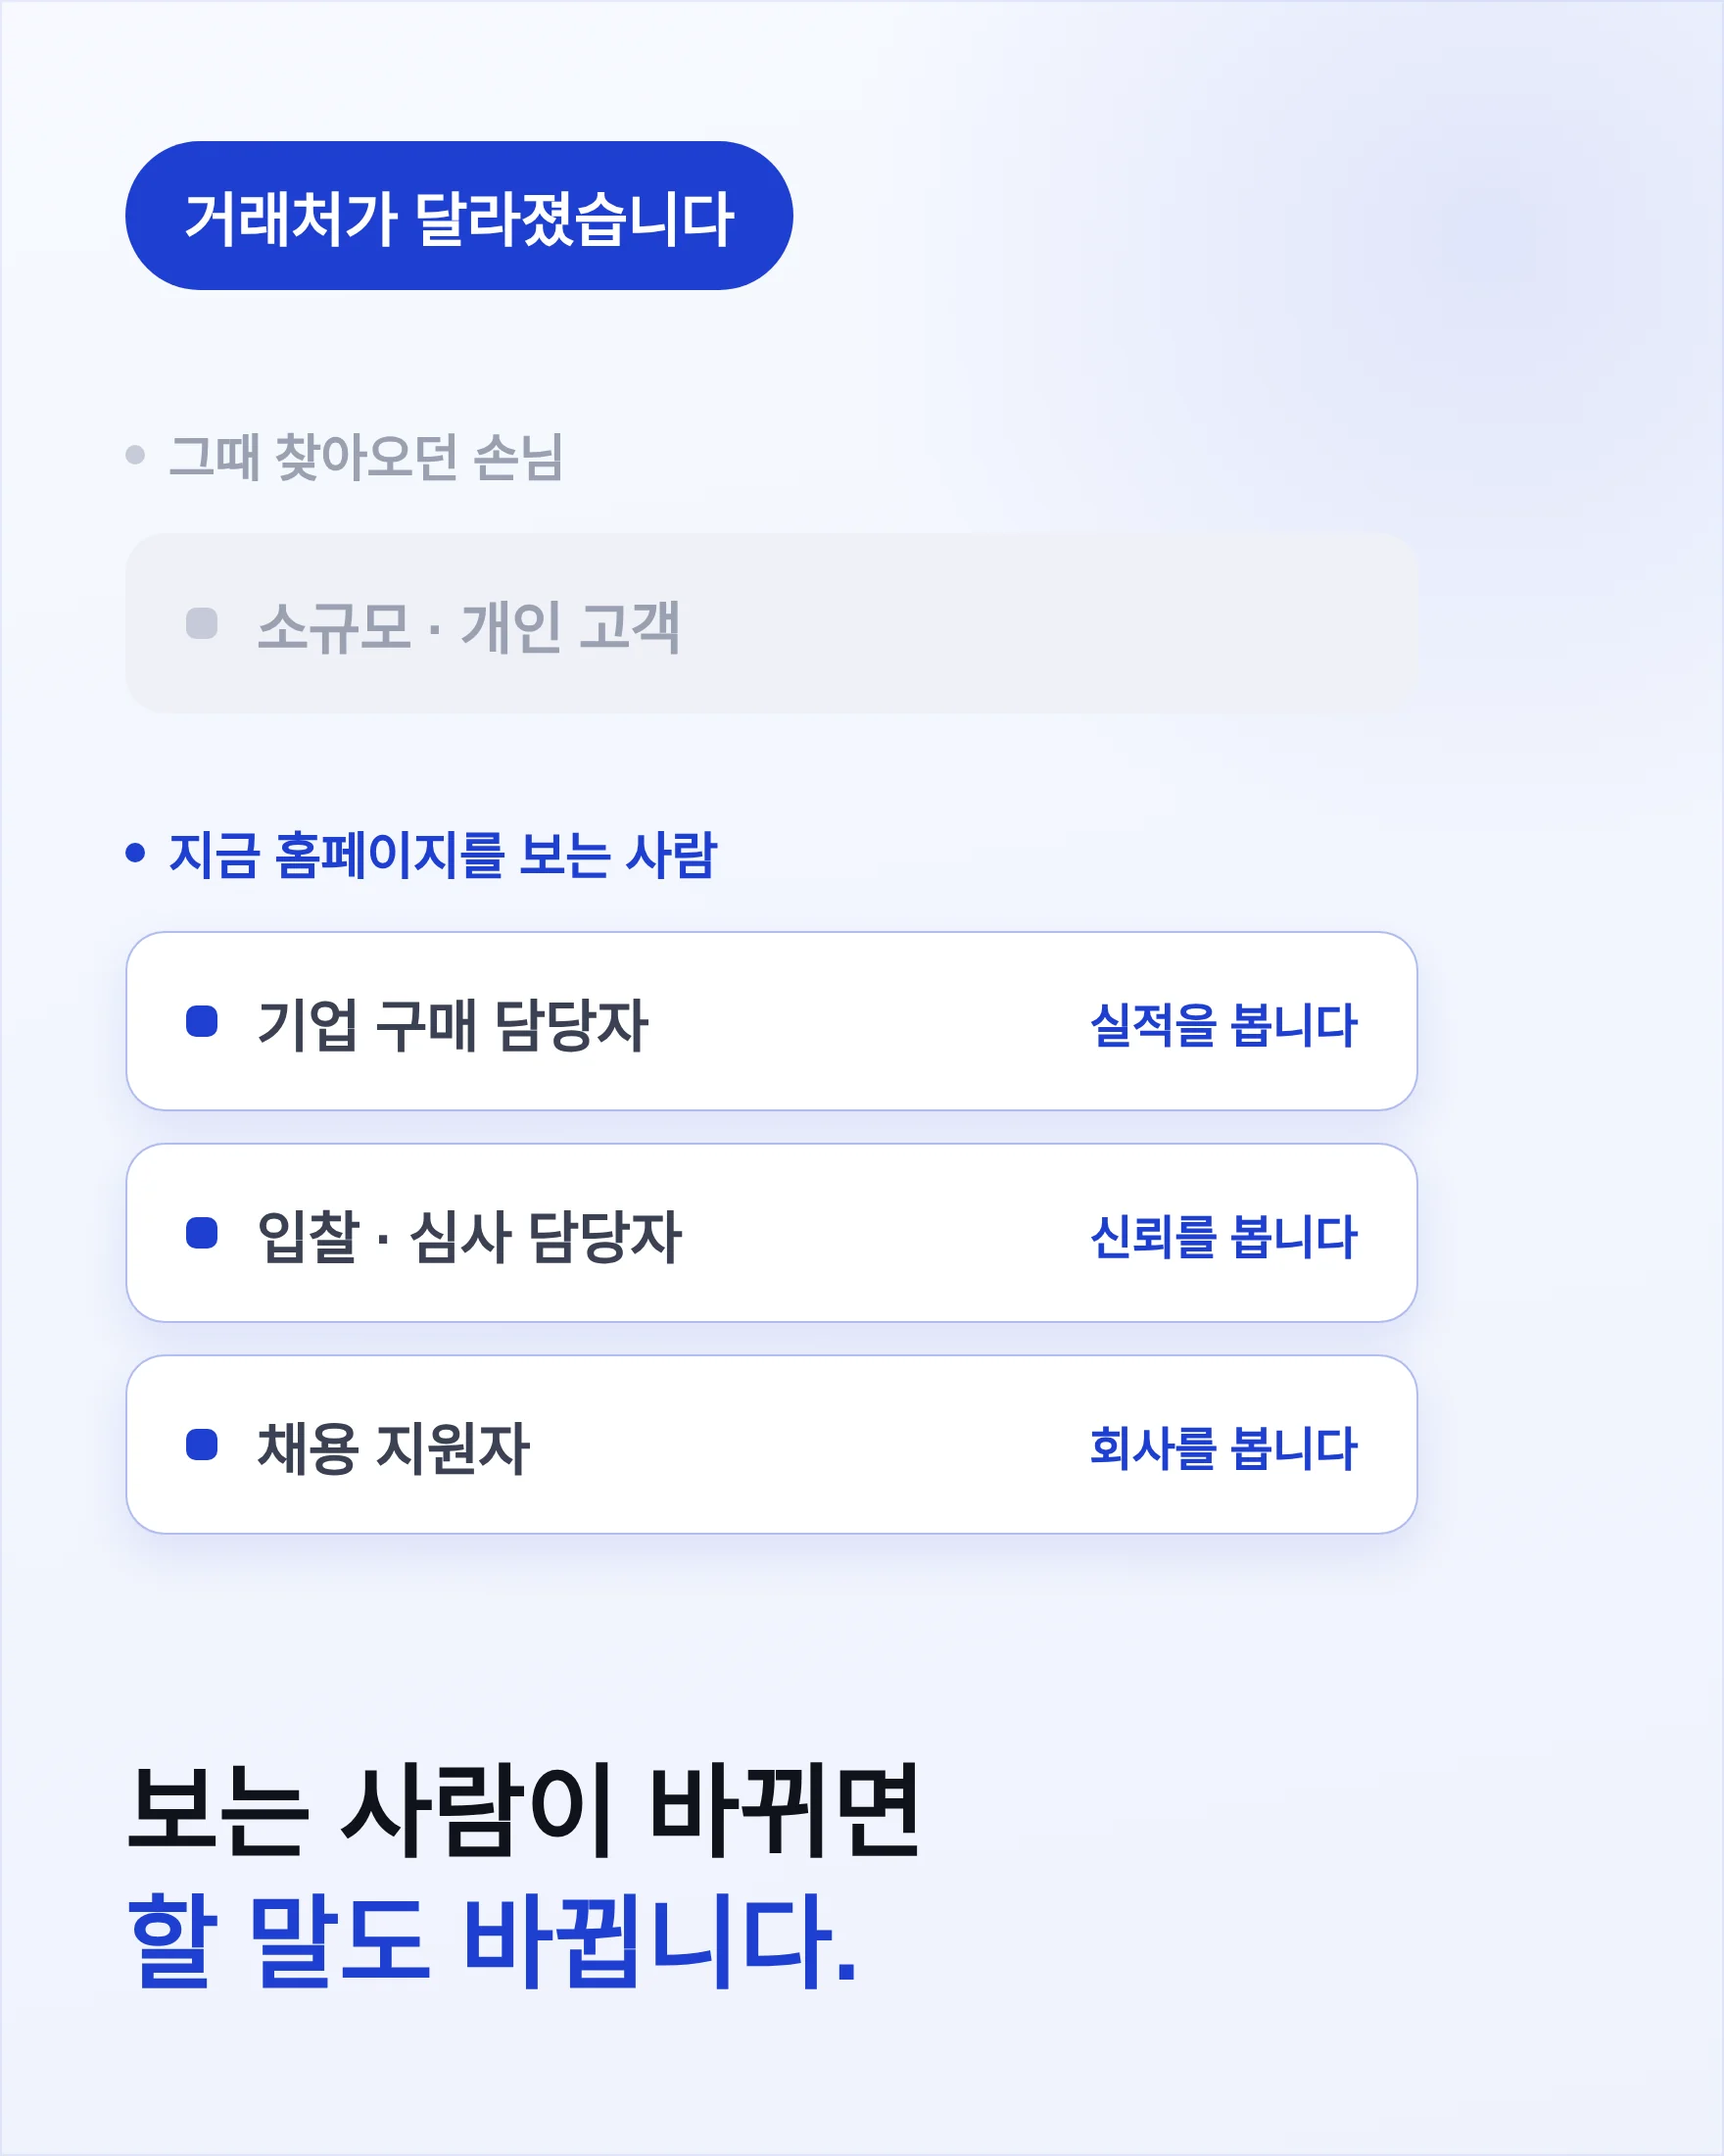
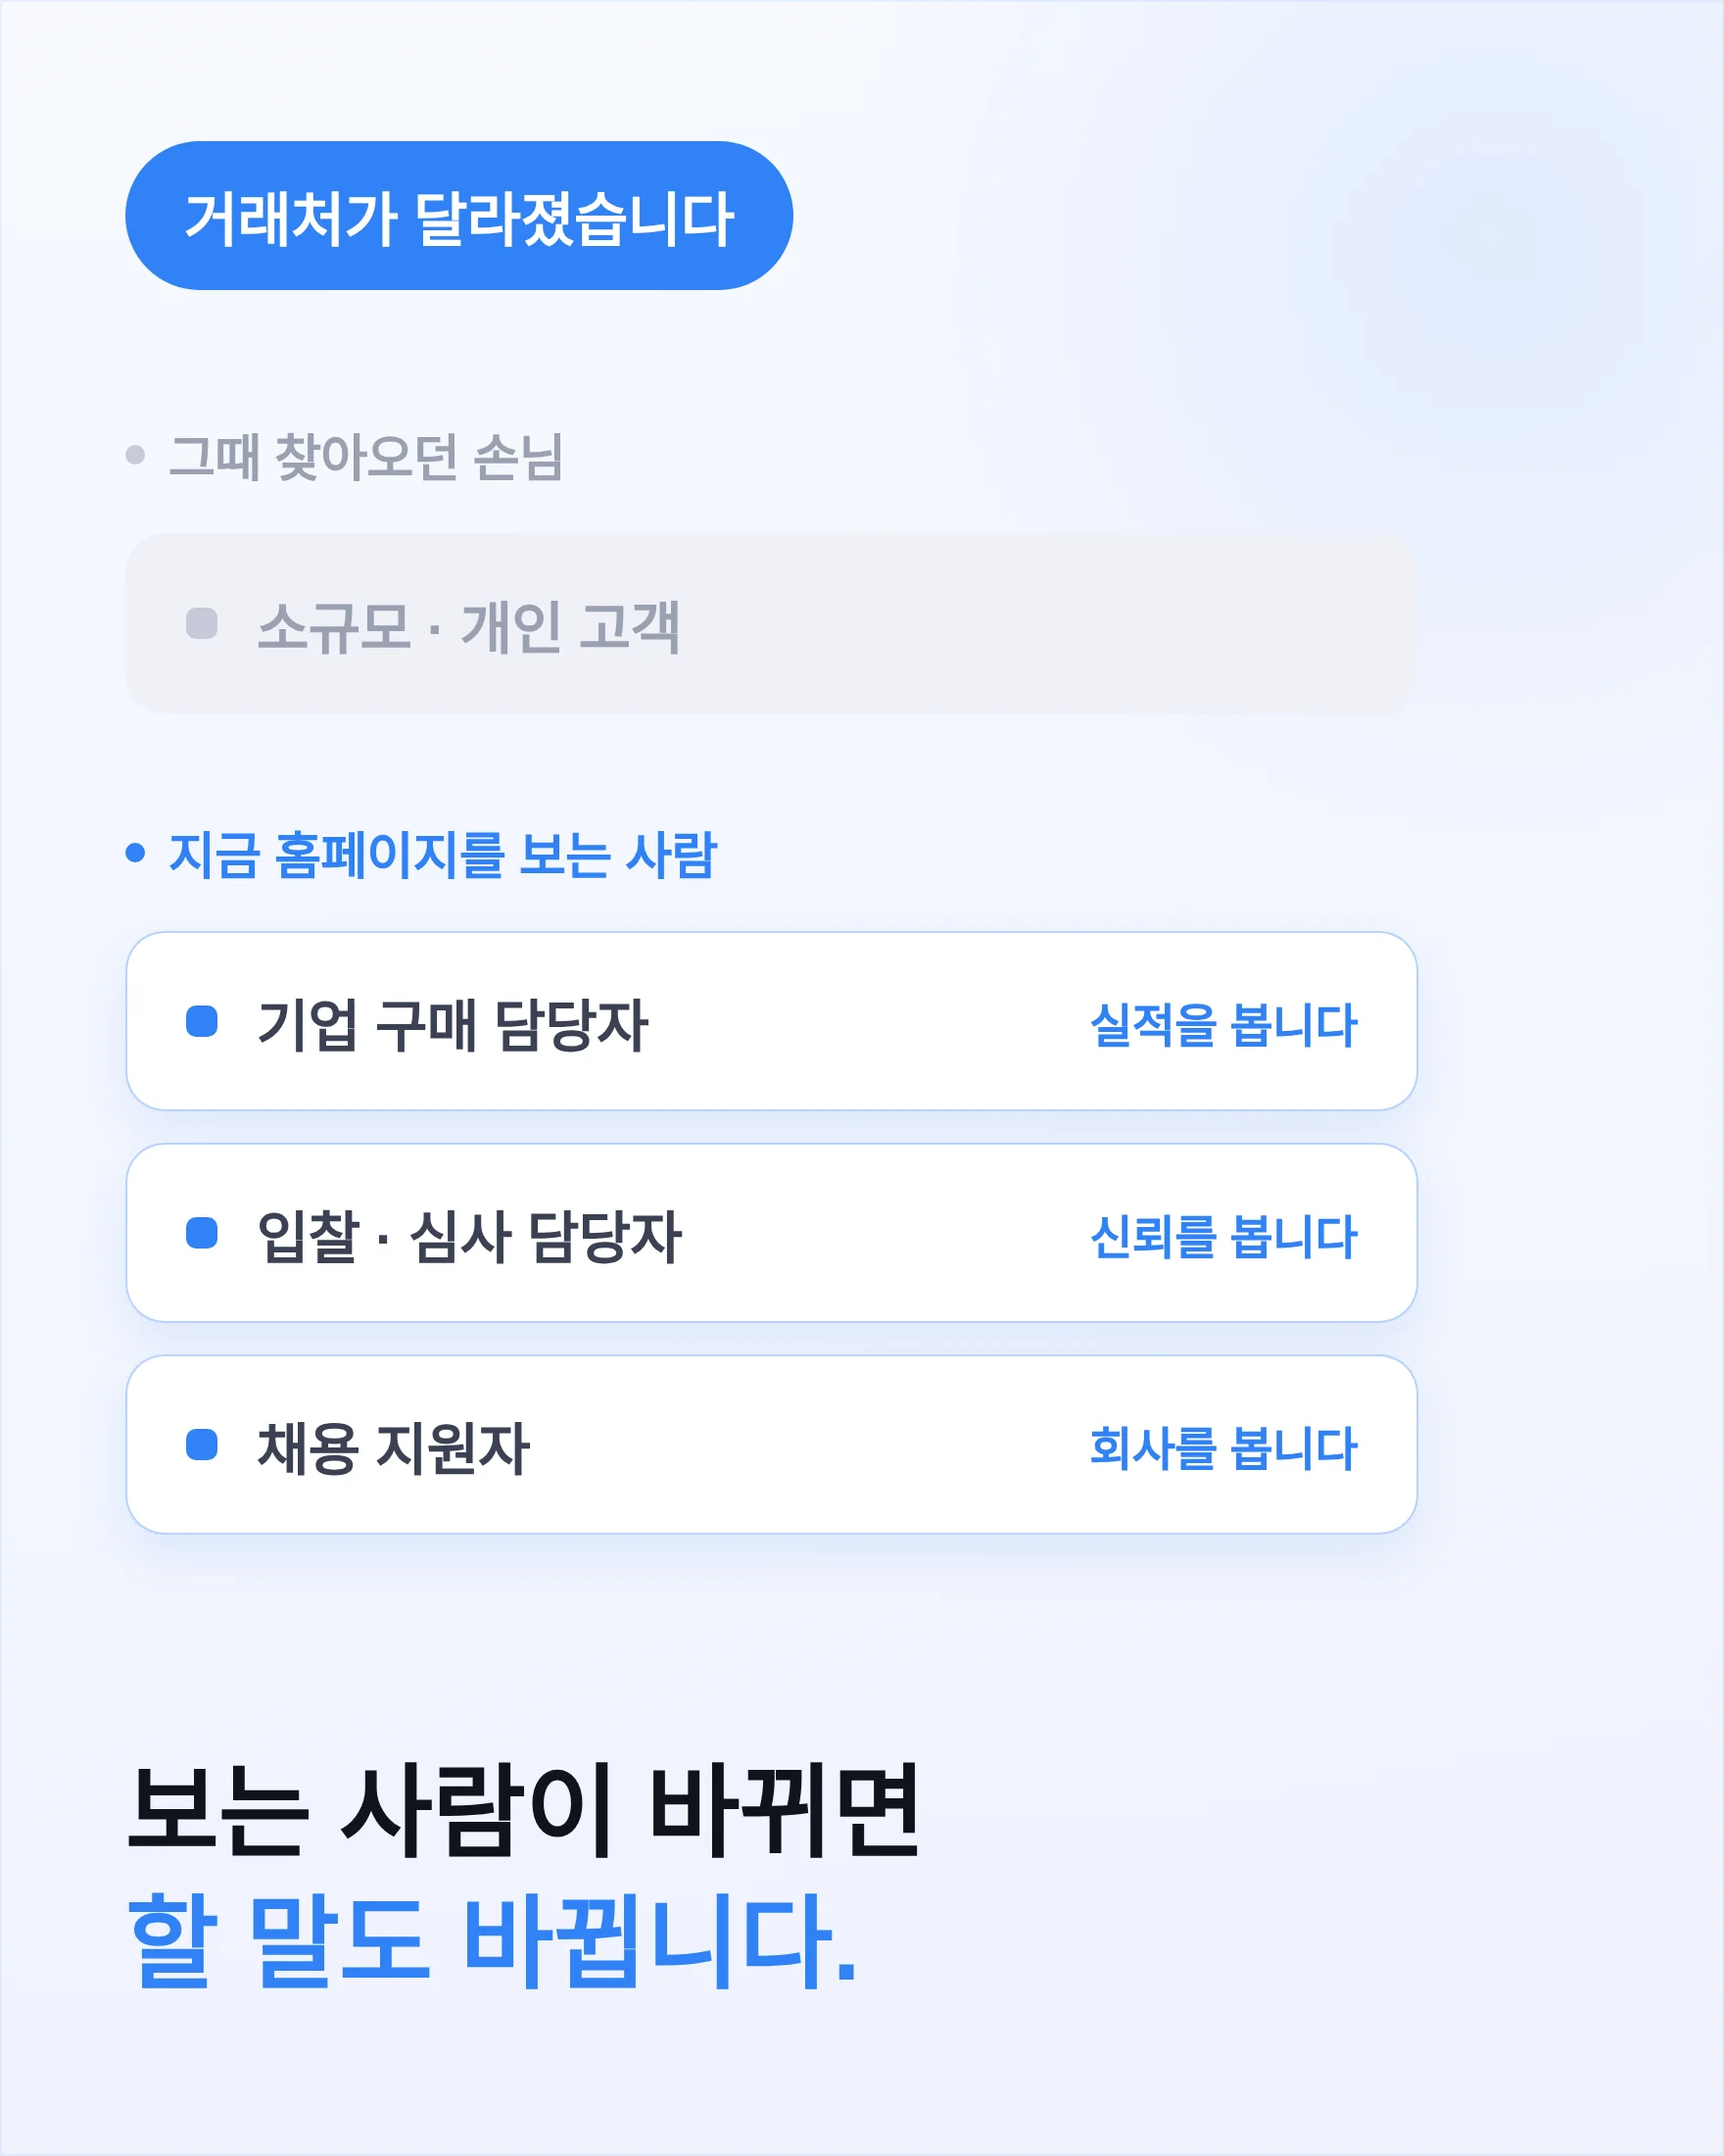
TDS(토스 디자인 시스템) 토큰 적용
- 액센트 #1F3FD1 → TDS 블루 #3182F6 (hover #2272EB), soft #E8F1FE
- 텍스트 위계 #191F28 / #4E5968 / #8B95A1, 구분선 #E5E8EB로 통일
- 소프트 섹션 블루틴트 → 중립 #F2F4F6 (플랫: 그림자 대신 면 색 차이)
- 버튼 필 → 라운드 14px, 보조 버튼 외곽선 → 라이트 그레이 필
- 리뷰 카드 그림자 제거 + 보더, 다크 섹션 #17171C
- THE GAP 그래픽 카드 TDS 블루로 재생성

Claude-Session: https://claude.ai/code/session_01K49HcrnN816cMoiuWQVPVC

diff --git a/src/styles/global.css b/src/styles/global.css
@@ -1411,3 +1411,42 @@ html{overflow-x:clip}
   .signs__result{grid-template-columns:1fr;text-align:center}
   .signs__result .signs__msg{text-align:center}
 }
+
+/* ================================================================
+   TDS(토스 디자인 시스템) 토큰 적용 — 이 블록이 색·면·선·버튼의 최종 기준
+   근거(공개 토큰 실측): 텍스트 #191F28/#4E5968/#8B95A1,
+   면 분리 #FFFFFF/#F2F4F6(플랫, 그림자 대신 면 색 차이), 구분선 #E5E8EB,
+   버튼·링크 블루 #3182F6, hover #2272EB, 다크 #17171C
+   ================================================================ */
+:root{--ink:#191F28;--muted:#4E5968;--tertiary:#8B95A1;--line:#E5E8EB}
+/* 면: 소프트 섹션은 블루틴트 대신 TDS 중립 그레이 */
+.sec--soft{background:#F2F4F6}
+.signs__result,.signs__result.is-alert{background:#fff}
+.rv__card{box-shadow:none;border:1px solid var(--line)}
+/* 선: 모든 라이트 구분선 #E5E8EB */
+.compare th,.compare td{border-bottom-color:var(--line)}
+.faq details{border-bottom-color:var(--line)}
+.statbar li{border-color:var(--line)}
+.signs li,.signs__row,.plist__a,.plist li{border-color:var(--line)}
+.cv__list li{border-color:var(--line)}
+@media (max-width:640px){.statbar li{border-color:var(--line)}}
+/* 버튼: 필 → TDS 라운드 사각(14px), hover는 투명도 대신 색 변화 */
+.btn{border-radius:14px;transition:background .18s ease,transform .18s ease}
+.btn:hover{opacity:1;background:#2272EB}
+/* 보조 버튼: 외곽선 → 면 색 차이(라이트 그레이 필) */
+.btn--line{background:#F2F4F6;border:0;color:#333D4B}
+.btn--line:hover{background:#E5E8EB;color:#191F28}
+.sec--soft .btn--line{background:#fff}
+.sec--soft .btn--line:hover{background:#F9FAFB}
+.hero--dark .btn--line{background:rgba(255,255,255,.14);border:0;color:#fff}
+.hero--dark .btn--line:hover{background:rgba(255,255,255,.22)}
+/* 배지·캡션 위계 */
+.statbar__note,.ba__note,.form__privacy{color:var(--tertiary)}
+.flow__copy .label{color:#7CB2F9}
+/* 플랫: 큰 그림자 제거 */
+.cv__cards{box-shadow:0 8px 28px rgba(25,31,40,.08)}
+/* 다크 섹션 바탕: 남색 이미지 섹션 외 순수 다크는 TDS #17171C 톤 */
+.sec--dark{background:#17171C}
+/* TDS 보강: 남은 검은 실선 전부 중립 구분선으로 */
+.signs,.faq,.statbar__in,.rows{border-top-color:var(--line)}
+@media (max-width:640px){.statbar__in{border-top-color:var(--line)}}
